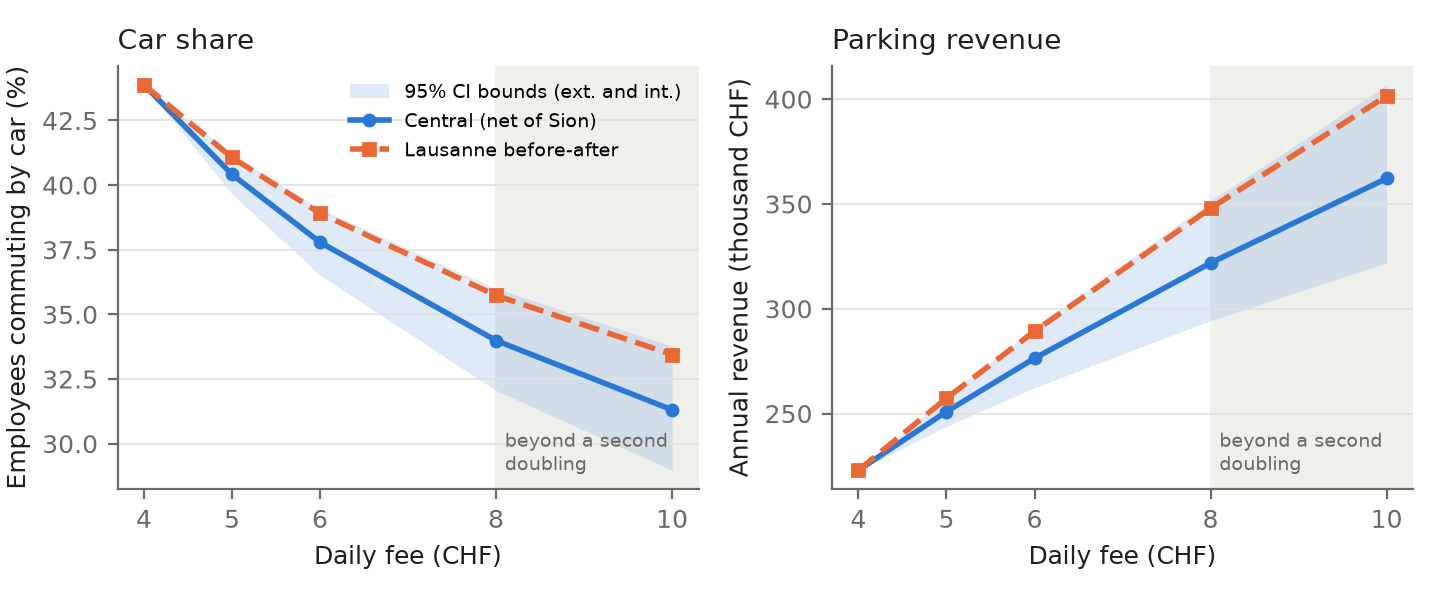
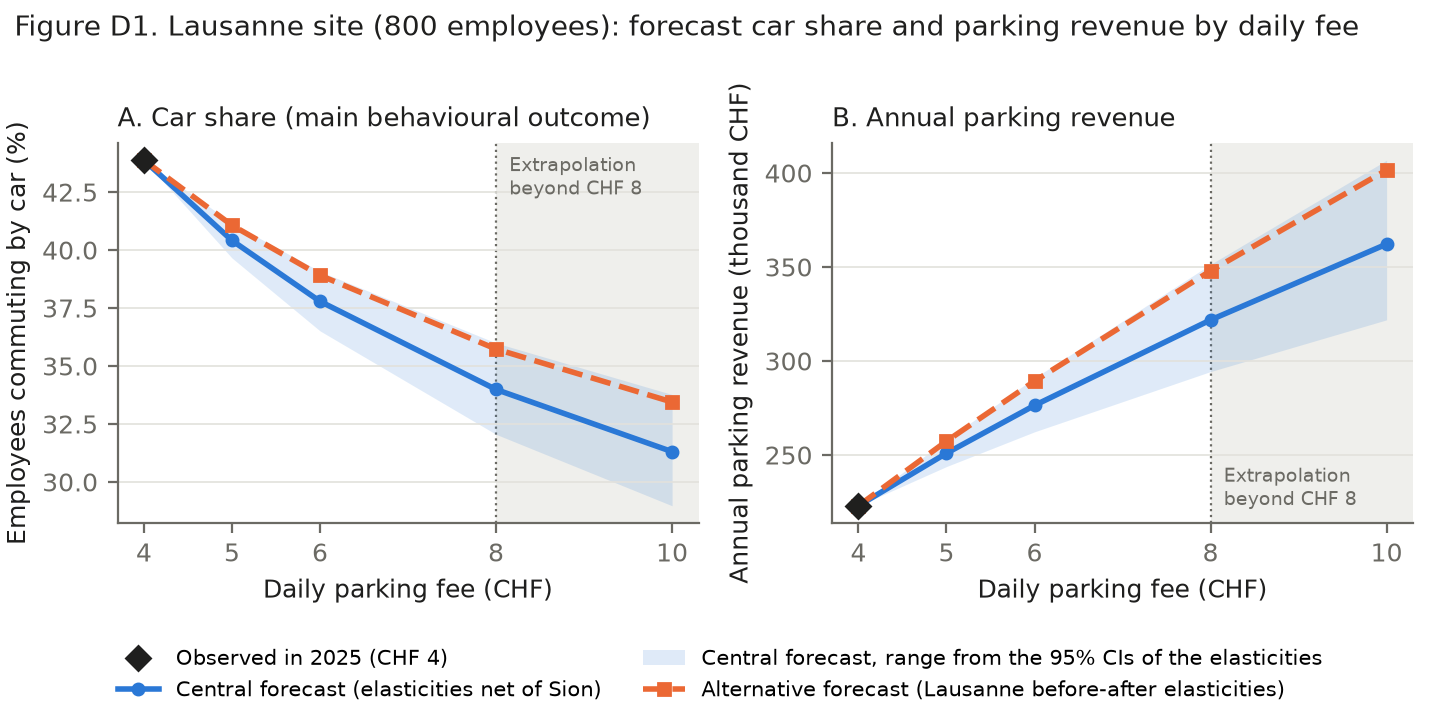
graph d1

diff --git a/analysis.py b/analysis.py
@@ -681,28 +681,39 @@ BLUE, ORANGE, INK, MUTED = "#2a78d6", "#eb6834", "#1f1f1e", "#6b6a64"
 plt.rcParams.update({"font.size": 9, "axes.edgecolor": MUTED, "axes.labelcolor": INK,
                      "xtick.color": MUTED, "ytick.color": MUTED, "axes.spines.top": False,
                      "axes.spines.right": False})
-fig, axes = plt.subplots(1, 2, figsize=(7.2, 3.0))
+fig, axes = plt.subplots(1, 2, figsize=(7.2, 3.6))
 x = central.fee
-for ax, col, scale, ylab, title in [
-        (axes[0], "S", 100, "Employees commuting by car (%)", "Car share"),
-        (axes[1], "rev", 1e-3, "Annual revenue (thousand CHF)", "Parking revenue")]:
+CREDIBLE_MAX = 8   # one more doubling from CHF 4, same log change as observed (2 -> 4)
+for ax, col, scale, ylab, title, label_top in [
+        (axes[0], "S", 100, "Employees commuting by car (%)", "A. Car share (main behavioural outcome)", True),
+        (axes[1], "rev", 1e-3, "Annual parking revenue (thousand CHF)", "B. Annual parking revenue", False)]:
+    ax.axvspan(CREDIBLE_MAX, 10.5, color="#efefec", zorder=0, lw=0)
+    ax.axvline(CREDIBLE_MAX, color=MUTED, lw=0.8, ls=":", zorder=1)
     ax.fill_between(x, alt_lo[col] * scale, alt_hi[col] * scale, color=BLUE, alpha=0.15, lw=0,
-                    label="95% CI bounds (ext. and int.)")
-    ax.plot(x, central[col] * scale, color=BLUE, lw=2, marker="o", ms=4, label="Central (net of Sion)")
+                    label="Central forecast, range from the 95% CIs of the elasticities")
+    ax.plot(x, central[col] * scale, color=BLUE, lw=2, marker="o", ms=4,
+            label="Central forecast (elasticities net of Sion)")
     ax.plot(x, alt_raw[col] * scale, color=ORANGE, lw=2, ls="--", marker="s", ms=4,
-            label="Lausanne before-after")
-    ax.axvspan(8, 10.5, color="#efefec", zorder=0)
+            label="Alternative forecast (Lausanne before-after elasticities)")
+    ax.plot([FEE_2025], [central[col].iloc[0] * scale], color=INK, marker="D", ms=6, ls="none", zorder=5,
+            label="Observed in 2025 (CHF 4)")
     ax.set_xlim(3.7, 10.3)
     ax.set_xticks(SCENARIOS)
-    ax.set_xlabel("Daily fee (CHF)")
+    ax.set_xlabel("Daily parking fee (CHF)")
     ax.set_ylabel(ylab)
-    ax.set_title(title, loc="left", fontsize=10, color=INK)
+    ax.set_title(title, loc="left", fontsize=9.5, color=INK)
     ax.grid(axis="y", color="#e2e1dc", lw=0.6)
-    ax.text(8.1, ax.get_ylim()[0] + 0.03 * np.ptp(ax.get_ylim()), "beyond a second\ndoubling",
-            fontsize=7, color=MUTED, va="bottom")
-axes[0].legend(frameon=False, fontsize=7, loc="upper right")
-fig.tight_layout()
-fig.savefig(FIG / "figure_D1.pdf")
+    lo_y, hi_y = ax.get_ylim()   # label placed where it does not cover the lines
+    ax.text(CREDIBLE_MAX + 0.15, hi_y - 0.03 * (hi_y - lo_y) if label_top else lo_y + 0.03 * (hi_y - lo_y),
+            "Extrapolation\nbeyond CHF 8", fontsize=7, color=MUTED, va="top" if label_top else "bottom")
+handles, labels = axes[0].get_legend_handles_labels()
+order = [3, 1, 0, 2]   # observed, central, CI range, alternative
+fig.legend([handles[k] for k in order], [labels[k] for k in order], loc="lower center", ncol=2, frameon=False,
+           fontsize=7.5)
+fig.suptitle("Figure D1. Lausanne site (800 employees): forecast car share and parking revenue by daily fee",
+             x=0.01, ha="left", fontsize=10, color=INK)
+fig.tight_layout(rect=(0, 0.12, 1, 0.97))
+fig.savefig(FIG / "figure_D1.pdf", metadata={"CreationDate": None})
 fig.savefig(FIG / "figure_D1.png", dpi=200)
 plt.close(fig)
 
